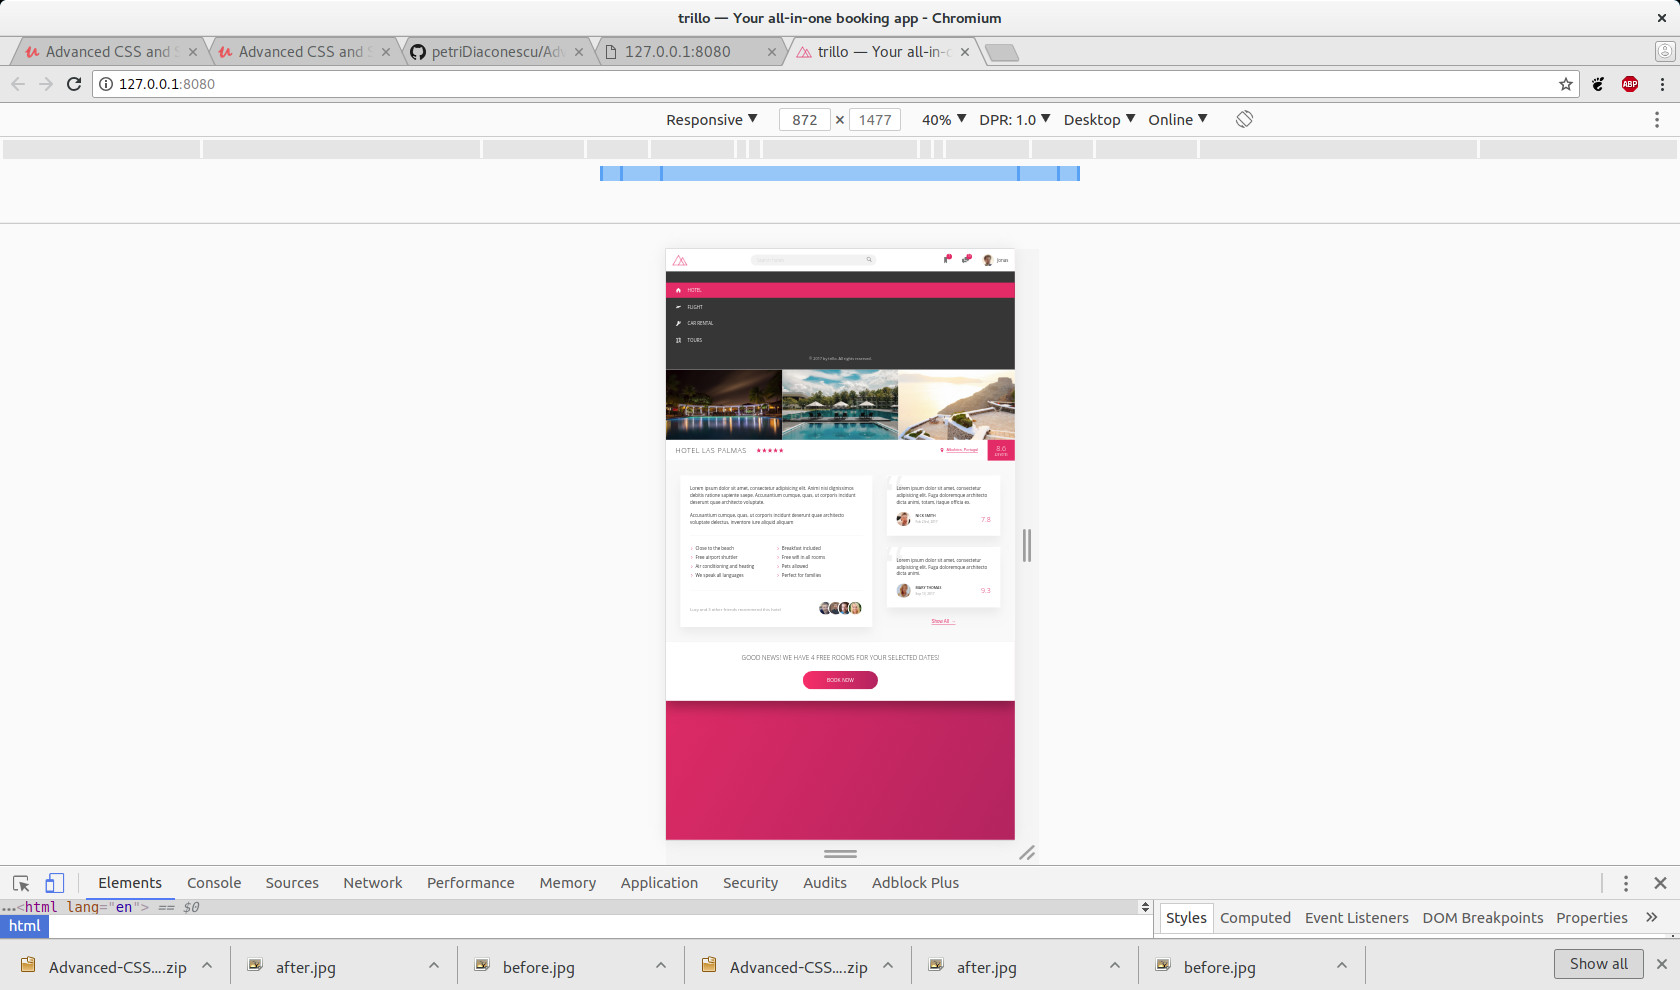
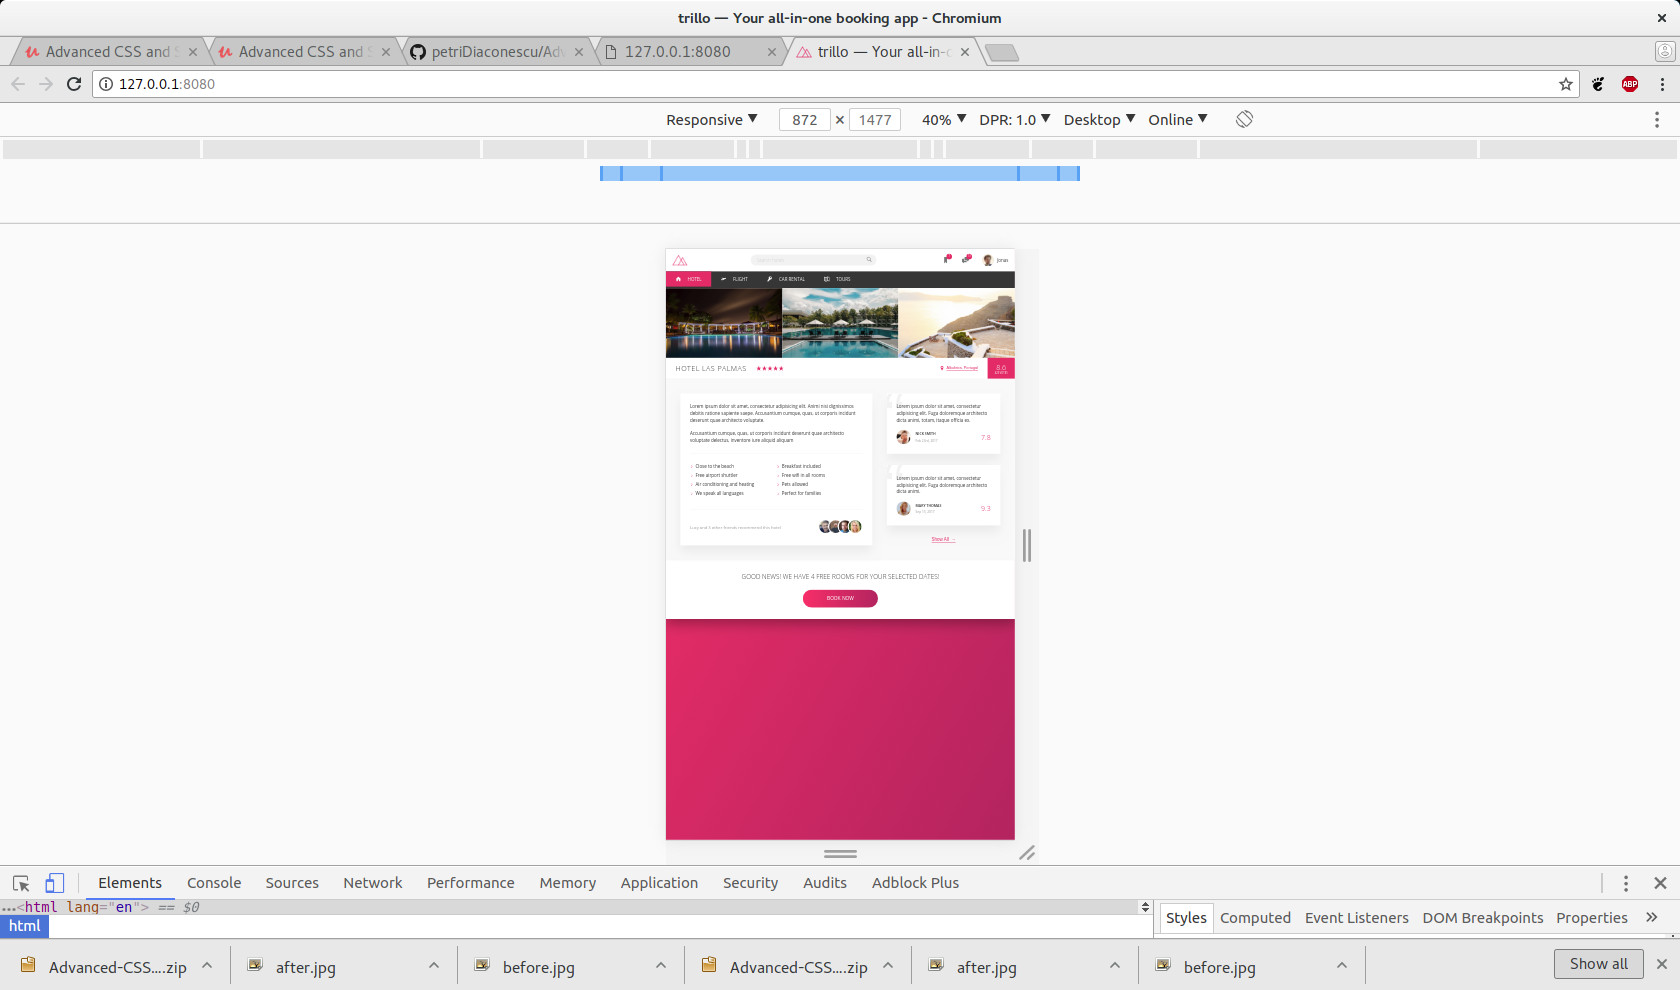
Get menu items side by side using flex and get rid of the legal text under 900px screen devices.

Changed region(s): [[0.3714, 0.2727, 0.619, 0.7273]]

diff --git a/sass/_components.scss b/sass/_components.scss
@@ -129,6 +129,10 @@
   list-style: none;
   margin-top: 3.5rem;
   
+  @media only screen and (max-width: $bp-medium){
+    display: flex;
+    margin: 0;   
+  } 
   
   &__item {
     position: relative;
@@ -191,6 +195,10 @@
   text-align: center;
   padding: 2.5rem;
   color: var(--color-grey-light-4);
+  
+  @media only screen and (max-width: $bp-medium){
+    display: none;
+  } 
 }
 
 //////////////////////////////////////////////////
